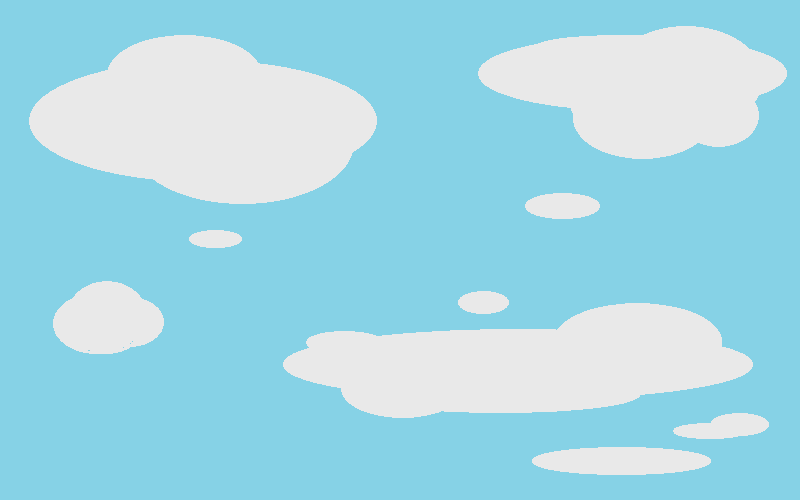
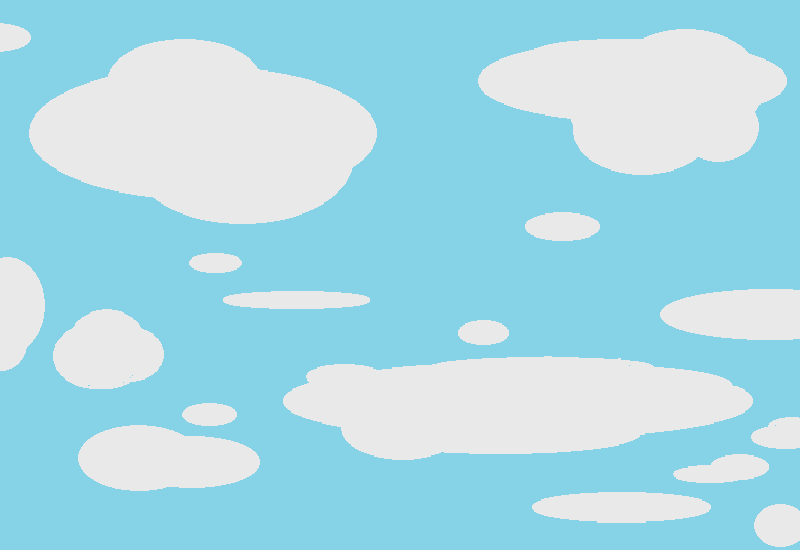
terminada funcionalidad generadora de plataformas

diff --git a/functions.js b/functions.js
@@ -6,6 +6,7 @@ import {
     ctx,
     marcadores,
     estado,
+    colores,
     sonidos
 } from './constants.js';
 
@@ -18,12 +19,28 @@ import {
 // ----------------------------------------------------------------------------
 function dibuja_scrolls(img1, img2) {
     const resY = constante.resolucion[1];
-    // scroll.bgScroll ++;
+    scroll.bgScroll ++;
+
+    if (scroll.bgScroll >= resY * 2) scroll.bgScroll = 0;
 
     ctx.drawImage(img1, 0, 0 + scroll.bgScroll);
     ctx.drawImage(img2, 0, 0 - resY + scroll.bgScroll);
+    ctx.drawImage(img1, 0, 0 - resY * 2 + scroll.bgScroll);
+    ctx.drawImage(img2, 0, 0 - resY * 3 + scroll.bgScroll);
 }
 
+// ----------------------------------------------------------------------------
+function dibuja_plataformas() {
+    const nro_plataformas = estado.plataformas_visibles.length;
+
+    for (let i = 0; i < nro_plataformas; i ++) {
+        let dibujaPlataforma = estado.plataformas_visibles[i];
+        if (dibujaPlataforma) dibujaPlataforma.dibuja();
+        // console.log(dibujaPlataforma.rect.x, dibujaPlataforma.rect.y);
+    }
+}
+
+// ----------------------------------------------------------------------------
 function reinstanciar_plataformas() {
     const cont = estado.contador_plataformas;
     const topP = constante.plataformas_level_up;
@@ -41,7 +58,8 @@ function reinstanciar_plataformas() {
             x = 0;
         
         } else {
-            x = Math.floor(Math.random() * columnas - 2);
+            x = Math.floor(Math.random() * (columnas - 2));
+
             if (marcadores.nivel < 9) {
                 ancho = Math.floor(Math.random() * (valor[1] - valor[0])) + 2;
 
@@ -51,7 +69,7 @@ function reinstanciar_plataformas() {
         }
 
         const indiceUltimaPlat = estado.plataformas_visibles.length - 1;
-        const ultimaPlataforma = Math.floor(estado.plataformas_visibles[indiceUltimaPlat].y / constante.bsy);
+        const ultimaPlataforma = Math.floor(estado.plataformas_visibles[indiceUltimaPlat].rect.y / constante.bsy);
         const espacioEntrePlataformas = Math.floor(Math.random() * 2) + 2;
         const y = ultimaPlataforma - espacioEntrePlataformas;
 
@@ -59,9 +77,12 @@ function reinstanciar_plataformas() {
 
         let velX_rnd;
         const num_rnd = Math.floor(Math.random() * 99);
+        console.log(num_rnd);
 
-        if (num_rnd < marcadores.nivel * 4 && ancho < columnas - 2) {
-            velX_rnd = marcadores.nivel;
+        if (num_rnd <= marcadores.nivel * 9 && ancho < columnas - 2) {
+            velX_rnd = marcadores.nivel + 1;
+            if (x > columnas / 2) x = Math.floor(columnas / 2);
+
         } else {
             velX_rnd = 0;
         }
@@ -241,10 +262,10 @@ function reescalaCanvas() {
 
 // ------------------------------------------------------------------------
 function borraCanvas() {
-    canvas.width = canvas.width;
-    canvas.height = canvas.height;
-    // ctx.fillStyle = colores.sueloColor;
-    // ctx.fillRect(0, 0, canvas.width, canvas.height);
+    // canvas.width = canvas.width;
+    // canvas.height = canvas.height;
+    ctx.fillStyle = colores.azul_fondo;
+    ctx.fillRect(0, 0, canvas.width, canvas.height);
 }
 
 //========================================================================
@@ -272,6 +293,6 @@ export {
 	reescalaCanvas, borraCanvas, laPresentacion,
     nuevaPartidaLocationReload, playSonidos,
     playSonidosLoop, dibuja_scrolls,
-    reinstanciar_plataformas
+    reinstanciar_plataformas, dibuja_plataformas
 };
 

diff --git a/plataforma.js b/plataforma.js
@@ -38,7 +38,7 @@ export class Plataforma {
             } 
 
         } else {
-            for (segm of ancho) {
+            for (let i = 0; i < ancho; i ++) {
                 this.arrayPlataf.push(plataformasImg.movil);
             }
         }
@@ -54,8 +54,13 @@ export class Plataforma {
     }
 
     actualiza() {
-        this.rect.y += scroll.scroll;
+        this.rect.y += scroll.scroll + 1;
         this.rect.x += this.rect.velX;
+
+        if ((this.rect.x + this.rect.ancho * constante.bsx > constante.resolucion[0] && this.rect.velX > 0) ||
+            (this.rect.x < 0 && this.rect.velX < 0)) {
+                this.rect.velX *= -1;
+            } 
 
         if (this.rect.y > constante.resolucion[1]) {
             estado.plataformas_visibles.shift(); 

diff --git a/main.js b/main.js
@@ -37,7 +37,8 @@ import {
     nuevaPartidaLocationReload,
     playSonidos,
     playSonidosLoop,
-    reinstanciar_plataformas
+    reinstanciar_plataformas,
+    dibuja_plataformas
 } from './functions.js';
 
 window.onload = () => {
@@ -66,13 +67,6 @@ function bucle_principal() {
     reinstanciar_plataformas();
 
     dibuja_scrolls(scroll.scroll_img, scroll.scroll_img2);
-
-    for (let i = 0; i < estado.plataformas_visibles.length; i ++) {
-        let dibujaPlataforma = estado.plataformas_visibles[i];
-        dibujaPlataforma.dibuja();
-        // console.log(dibujaPlataforma.rect.x, dibujaPlataforma.rect.y);
-    }
+    dibuja_plataformas();
 }
-
-
 

diff --git a/constants.js b/constants.js
@@ -2,12 +2,12 @@
 //  Constantes & Variables
 // ----------------------------------------------------------------------------
 const constante = {
-    resolucion: [800, 500],
+    resolucion: [800, 550],
     bsx: 50,
     bsy: 50,
     fps: 50,
     gravedad: 1,
-    max_plataformas: 7,
+    max_plataformas: 5,
     plataformas_level_up: 70,
     ancho_plataf_nivel: [
         [2, 7],
@@ -67,10 +67,7 @@ const estado = {
 }
 
 const colores = {
-    paredColor: '#9D9D62',
-    paredColorOscuro: '#808052',
-    sueloColor: '#484848',
-    rojo: '#D32111'
+    azul_fondo: 'rgb(134, 210, 230)', 
 }
 
 const sonidos = {
